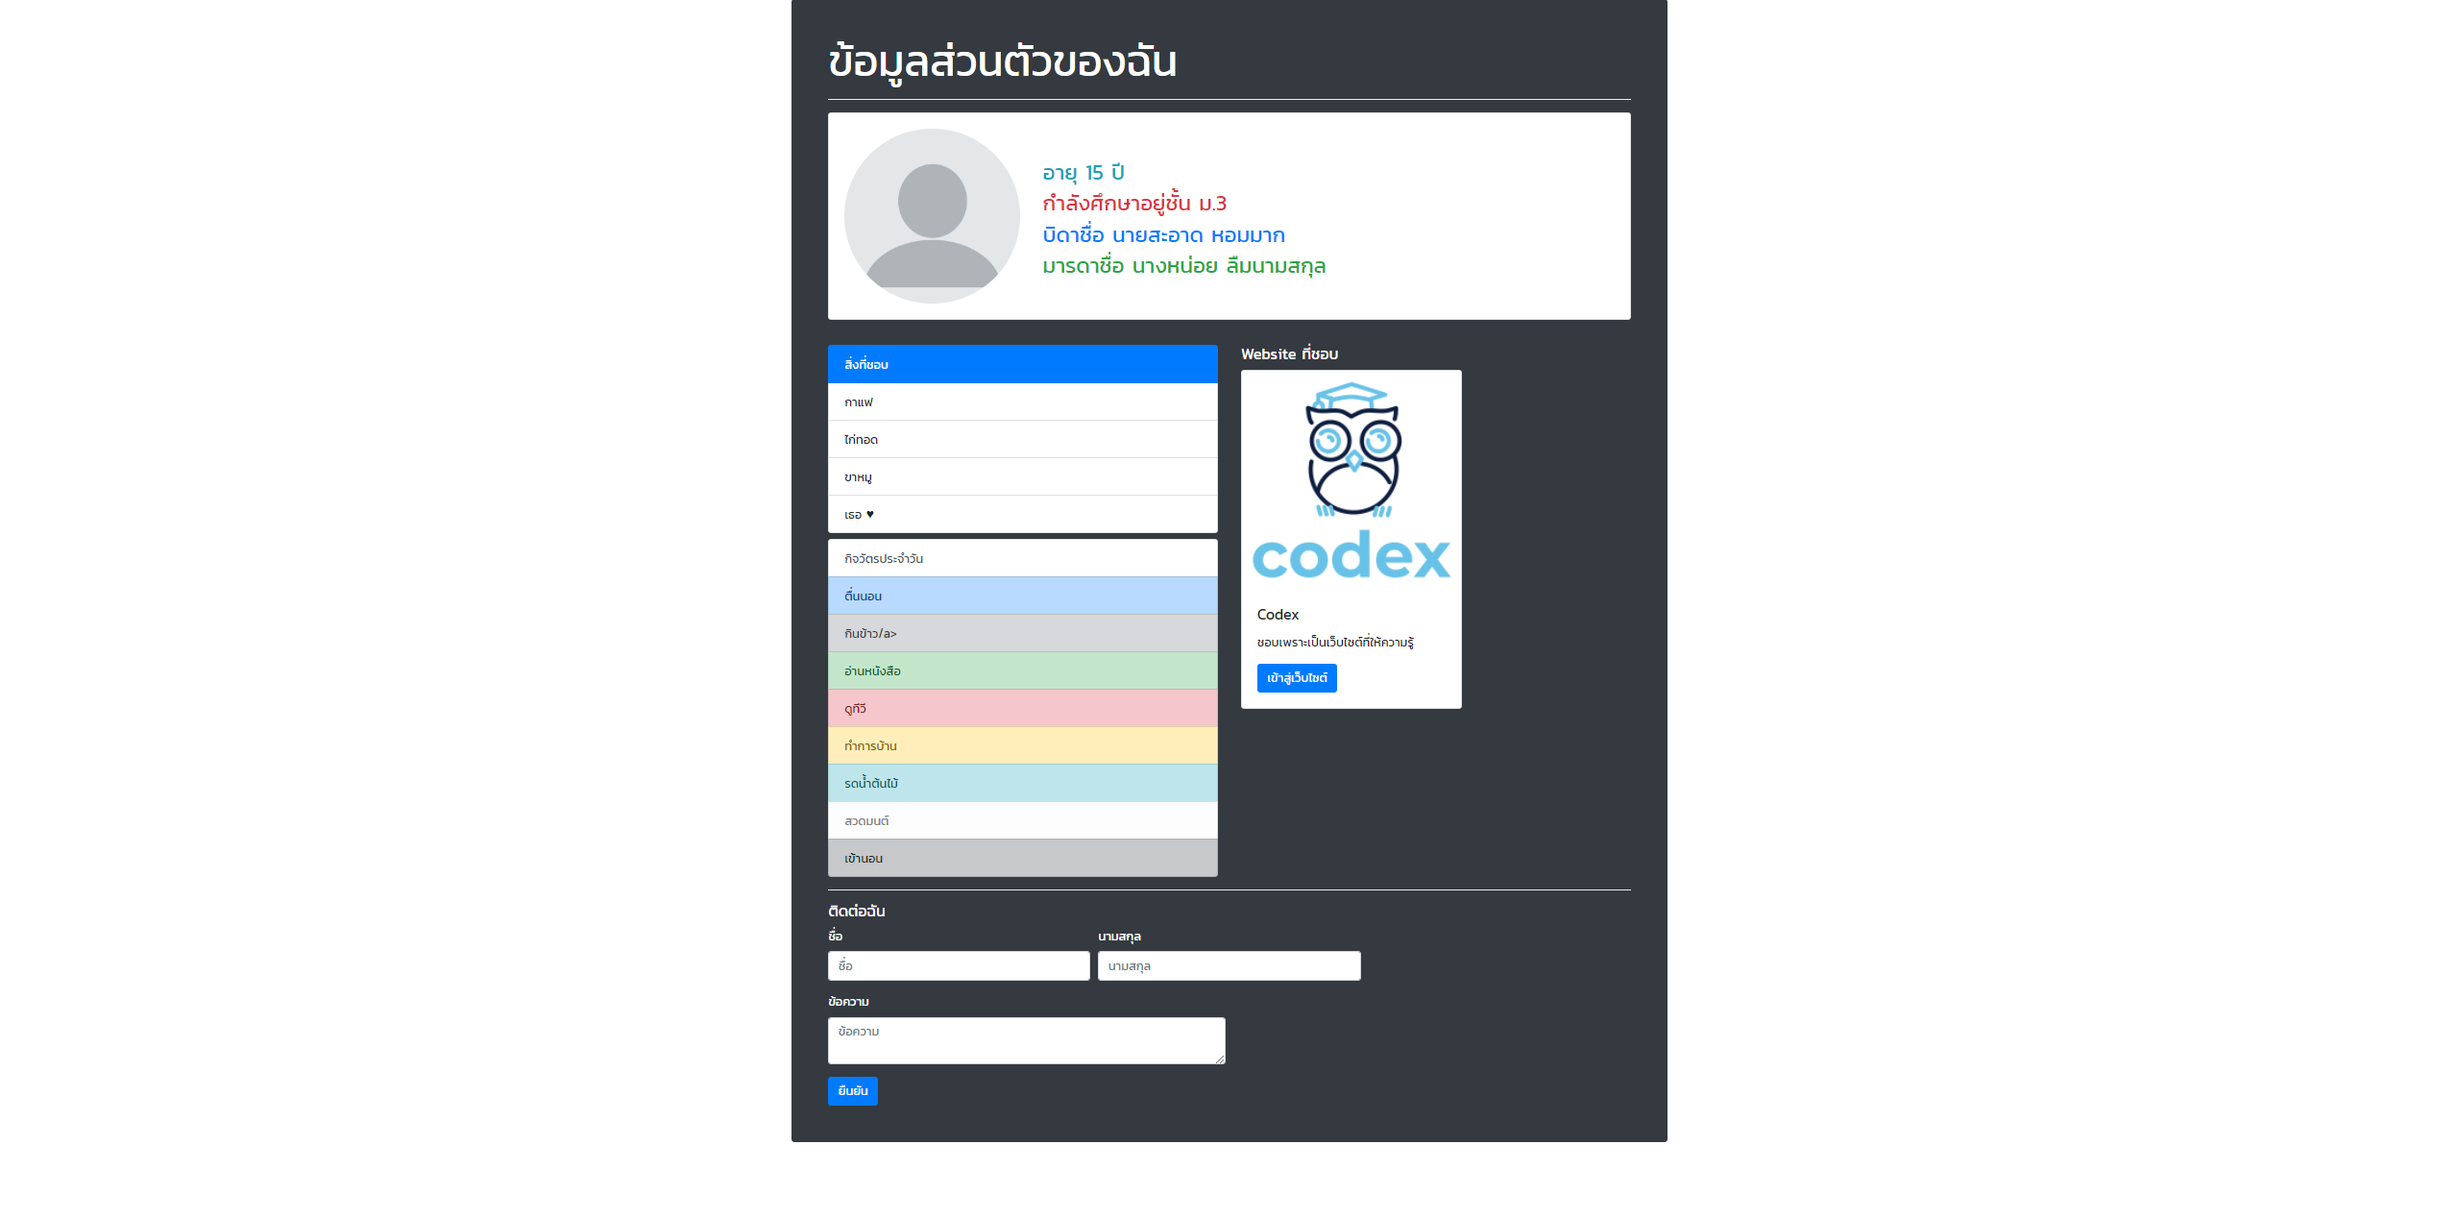
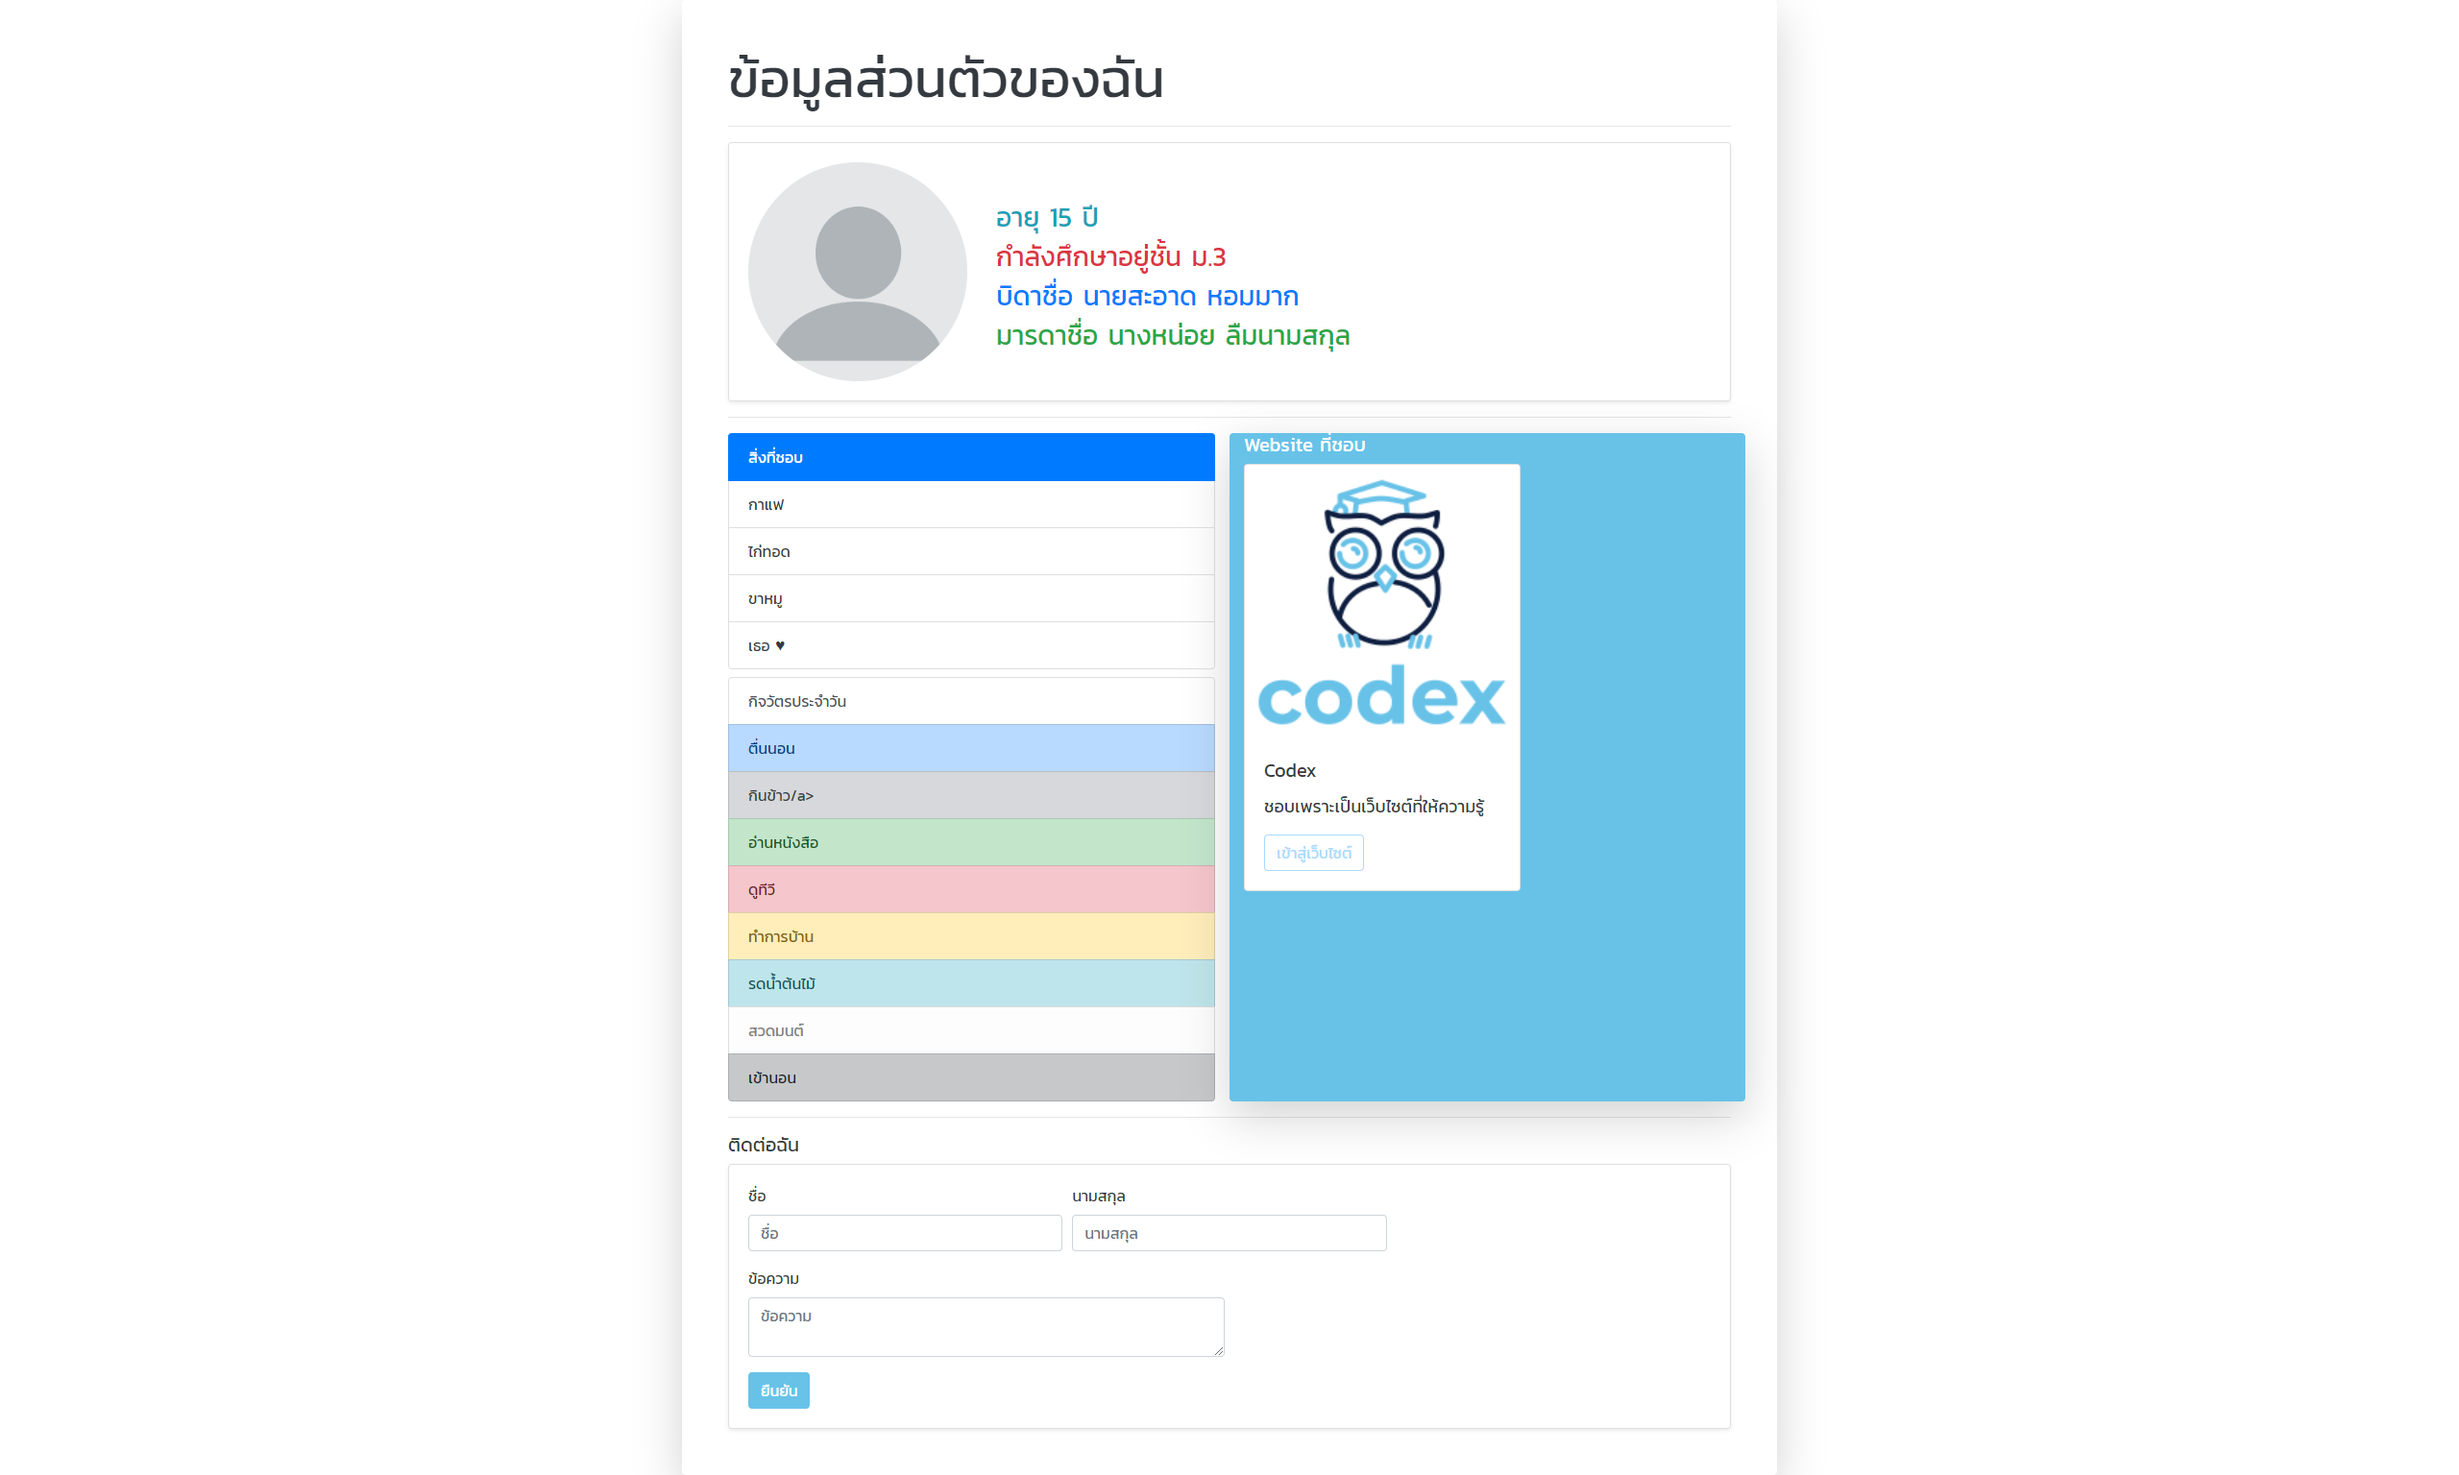
-

Changed region(s): [[0.2812, 0.0, 0.7188, 0.9535]]

diff --git a/public/html/demo-website.html b/public/html/demo-website.html
@@ -6,8 +6,10 @@
     <meta charset="utf-8">
     <meta name="viewport" content="width=device-width, initial-scale=1, shrink-to-fit=no">
     <!-- Bootstrap CSS -->
-    <link rel="stylesheet" href="https://stackpath.bootstrapcdn.com/bootstrap/4.3.1/css/bootstrap.min.css">
+    <!-- <link rel="stylesheet" href="https://stackpath.bootstrapcdn.com/bootstrap/4.3.1/css/bootstrap.min.css"> -->
+    <link rel="stylesheet" href="/css/bootstrap.min.css">
     <link href="https://fonts.googleapis.com/css?family=Kanit&display=swap" rel="stylesheet">
+    <link rel="stylesheet" href="/css/style.css">
     <title>แนะนำตนเอง</title>
     <style>
         body {
@@ -17,10 +19,10 @@
 </head>
 
 <body class="">
-    <div class="container bg-dark rounded p-5 shadow-lg">
-        <div class="display-4 text-white">ข้อมูลส่วนตัวของฉัน</div>
+    <div class="container text-dark rounded p-5 shadow-lg">
+        <div class="display-4 text-dark">ข้อมูลส่วนตัวของฉัน</div>
         <hr class="bg-white">
-        <div class="card">
+        <div class="card shadow-sm">
             <div class="card-body">
                 <div class="row">
                     <div class="col-3">
@@ -62,50 +64,55 @@
                   </div>
                 
             </div>
-            <div class="col">
+            <div class="col bg-blue rounded shadow-lg">
                 <h5 class="text-white">Website ที่ชอบ</h5>
                 <div class="card" style="width: 18rem;">
                     <img src="/pic/logo.png" class="card-img-top" alt="...">
                     <div class="card-body">
                       <h5 class="card-title">Codex</h5>
                       <p class="card-text">ชอบเพราะเป็นเว็บไซต์ที่ให้ความรู้</p>
-                      <a href="../" class="btn btn-primary stretched-link">เข้าสู่เว็บไซต์</a>
+                      <a href="../" class="btn btn-outline-primary stretched-link">เข้าสู่เว็บไซต์</a>
                     </div>
                   </div>
             </div>
 
         </div>
         <hr class="bg-white">
-        <h5 class="text-white">ติดต่อฉัน</h5>
-        <form class="needs-validation text-white" novalidate>
-            <div class="form-row">
-              <div class="col-md-4 mb-3">
-                <label for="validationCustom01">ชื่อ</label>
-                <input type="text" class="form-control" id="validationCustom01" placeholder="ชื่อ" value="" required>
-                <div class="valid-feedback">
-                  Looks good!
+        <h5 class="text-dark">ติดต่อฉัน</h5>
+        <div class="card shadow-sm">
+          <div class="card-body">
+            <form class="needs-validation text-dark" novalidate>
+              <div class="form-row">
+                <div class="col-md-4 mb-3">
+                  <label for="validationCustom01">ชื่อ</label>
+                  <input type="text" class="form-control" id="validationCustom01" placeholder="ชื่อ" value="" required>
+                  <div class="valid-feedback">
+                    Looks good!
+                  </div>
                 </div>
-              </div>
-              <div class="col-md-4 mb-3">
-                <label for="validationCustom02">นามสกุล</label>
-                <input type="text" class="form-control" id="validationCustom02" placeholder="นามสกุล" value="" required>
-                <div class="valid-feedback">
-                  Looks good!
+                <div class="col-md-4 mb-3">
+                  <label for="validationCustom02">นามสกุล</label>
+                  <input type="text" class="form-control" id="validationCustom02" placeholder="นามสกุล" value="" required>
+                  <div class="valid-feedback">
+                    Looks good!
+                  </div>
                 </div>
+              
               </div>
-            
-            </div>
-            <div class="form-row">
-              <div class="col-md-6 mb-3">
-                <label for="validationCustom03">ข้อความ</label>
-                <textarea type="text" class="form-control" id="validationCustom03" placeholder="ข้อความ" required></textarea>
+              <div class="form-row">
+                <div class="col-md-6 mb-3">
+                  <label for="validationCustom03">ข้อความ</label>
+                  <textarea type="text" class="form-control" id="validationCustom03" placeholder="ข้อความ" required></textarea>
+                  
+                </div>
                 
               </div>
-              
-            </div>
-           
-            <button class="btn btn-primary" type="submit">ยืนยัน</button>
-          </form>
+             
+              <button class="btn btn-primary" type="submit">ยืนยัน</button>
+            </form>
+          </div>
+        </div>
+       
           
         
     </div>
